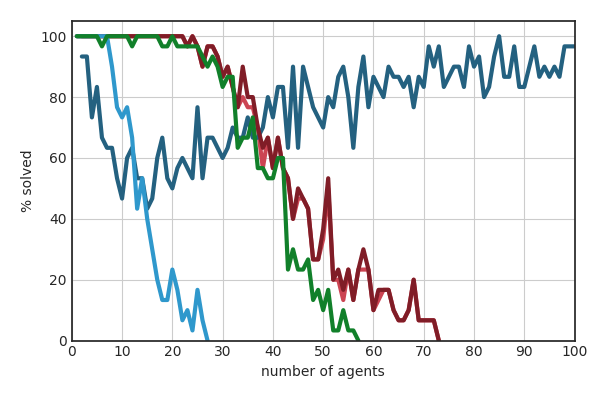
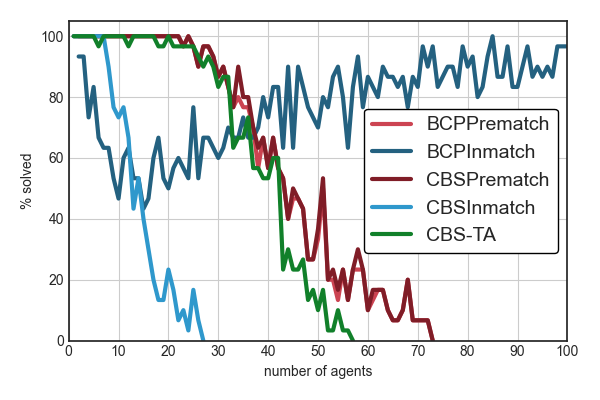
New images and setup for warehouse experiments

Changed region(s): [[0.06, 0.03, 0.99, 0.96], [0.03, 0.36, 0.06, 0.54], [0.84, 0.84, 0.9, 0.9]]

diff --git a/python/benchmarks/comparison_warehouse.py b/python/benchmarks/comparison_warehouse.py
@@ -15,7 +15,7 @@ from python.benchmarks.run_with_timeout import run_with_timeout
 from python.benchmarks.util import read_from_file, output_data
 
 this_dir = pathlib.Path(__file__).parent.absolute()
-name = "32x32_1"
+name = "warehouse"
 processes = 1
 
 
@@ -42,11 +42,12 @@ def generate_maps():
             30,  # number of maps
             32, 32,  # size
             i,  # number of agents
-            1,  # number of teams
+            12,  # number of teams
             prefix=name,
             min_goal_distance=0,
             open_factor=0.65,
             max_neighbors=3,
+            file="maps/warehouse.map"
         )
 
 

diff --git a/python/benchmarks/comparison_25percent_12teams.py b/python/benchmarks/comparison_25percent_12teams.py
@@ -171,7 +171,7 @@ def main():
         under="number of agents",
         save=True,
         bounds=False,
-        legend=False,
+        legend=True,
     )
 
 

diff --git a/python/benchmarks/comparison_25percent_3teams.py b/python/benchmarks/comparison_25percent_3teams.py
@@ -180,7 +180,7 @@ def main():
         under="number of agents",
         save=True,
         bounds=False,
-        legend=False,
+        legend=True,
     )
 
 

diff --git a/python/benchmarks/comparison_25percent_6teams.py b/python/benchmarks/comparison_25percent_6teams.py
@@ -171,7 +171,7 @@ def main():
         under="number of agents",
         save=True,
         bounds=False,
-        legend=False,
+        legend=True,
     )
 
 
